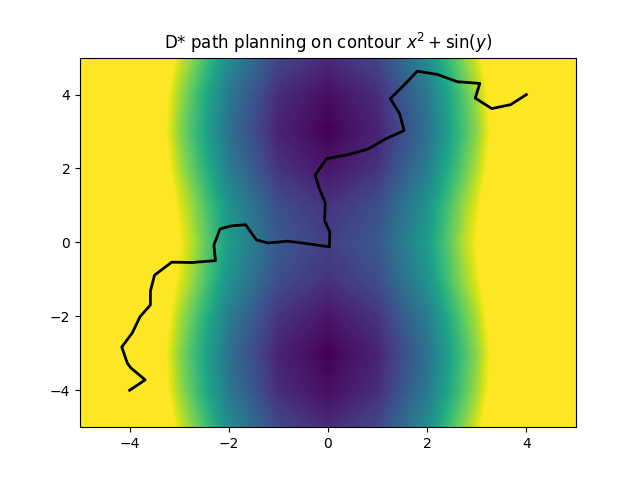
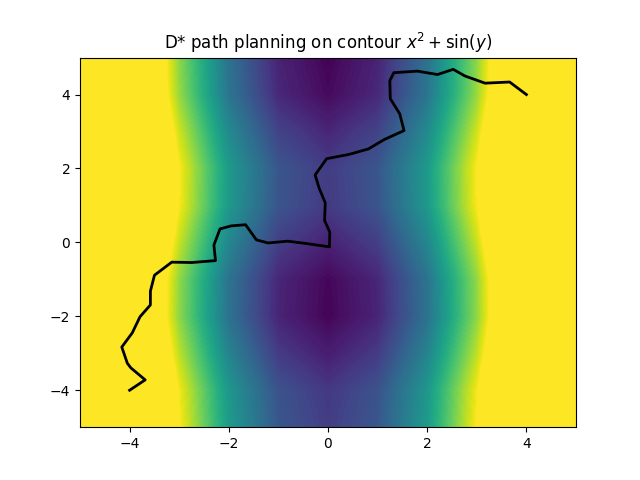
done.

Changed region(s): [[0.25, 0.4688, 0.7812, 0.9062], [0.25, 0.125, 0.8438, 0.4375]]

diff --git a/dijkstra_continuous.py b/dijkstra_continuous.py
@@ -1,0 +1,86 @@
+from lib.visualization import *
+from lib.node import *
+from lib.planner import *
+from lib.environment import *
+import numpy as np
+import matplotlib.pyplot as plt
+
+np.random.seed(234) # choose a seed...
+
+# plot empty axes
+fig, ax = plt.subplots()
+viz = Visualization((-5, 5), (-5, 5), ax)
+viz.plot_axes()
+viz.show(msg='Showing axes. Press enter to plan a path')
+
+# make environment
+env = Uniform(np.random.random((1000,2)) * 10 - 5, mincost=0.5, nodetype=TopologyNode)
+env.add_startgoal(start=[-4, -4], goal=[4, 4])
+
+for v in env.graph.keys():
+    v.set_cost(np.sin(v.x) + v.y**2)
+# viz.plot_nodes(env.pts)
+ax.set_title('Dijkstra path planning on contour $\sin(x) + y^2$') 
+
+x = np.arange(-7, 7)
+y = x.reshape(-1, 1)
+h = np.sin(x) + y**2
+
+cs = plt.contourf(x,y.flatten(),h, levels=np.linspace(-1,10,num=100), extend='both')
+# plan initial path
+planner = Astar(cost_multiplier=0)
+path, total_cost = planner.plan(env.graph, env.start, env.goal)
+viz.plot_path(BasicNode.nodes_to_xy(path), col='Black')
+viz.show(msg='Showing path. Press enter to add point obstacle') 
+print(f"associated onDeck, processed nodes, and iterations before obstacles and replanning: %s" % (planner.getCounts(), ))
+
+
+# for v in env.graph.keys():
+#     v.set_cost(np.cos(v.y) + v.x**2)
+
+# x = np.arange(-7, 7)
+# y = x.reshape(-1, 1)
+# h = np.cos(y) + x**2
+
+# fig, ax = plt.subplots()
+# viz2 = Visualization((-5, 5), (-5, 5), ax)
+# ax.set_title('D* path planning on contour $x^2 + \sin(y)$') 
+# viz2.plot_axes()
+
+# cs = plt.contourf(x,y.flatten(),h, levels=np.linspace(-1,10,num=100), extend='both')
+# # plan initial path
+# planner = Astar(cost_multiplier=0)
+# newpath, total_cost = planner.plan(env.graph, env.start, env.goal)
+# viz2.plot_path(BasicNode.nodes_to_xy(newpath), col='Black')
+# viz2.show(msg='Showing path. Press enter to add point obstacle') 
+# print(f"associated onDeck, processed nodes, and iterations before obstacles and replanning: %s" % (planner.getCounts(), ))
+
+# plot empty axes
+fig2, ax2 = plt.subplots()
+viz2 = Visualization((-5, 5), (-5, 5), ax2)
+viz2.plot_axes()
+viz2.show(msg='Showing axes. Press enter to plan a path')
+
+np.random.seed(234) # choose a seed...
+# make environment
+env2 = Uniform(np.random.random((1000,2)) * 10 - 5, mincost=0.5, nodetype=TopologyNode)
+env2.add_startgoal(start=[path[len(path) // 2].x, path[len(path) // 2].y], goal=[4, 4])
+
+for v in env2.graph.keys():
+    v.set_cost(np.sin(v.y) + v.x**2)
+# viz.plot_nodes(env.pts)
+ax2.set_title('Dijkstra path planning on contour $\sin(x) + y^2$') 
+
+x = np.arange(-7, 7)
+y = x.reshape(-1, 1)
+h = np.sin(y) + x**2
+
+cs = plt.contourf(x,y.flatten(),h, levels=np.linspace(-1,10,num=100), extend='both')
+# plan initial path
+planner2 = Astar(cost_multiplier=0)
+newpath2, total_cost2 = planner2.plan(env2.graph, env2.start, env2.goal)
+viz2.plot_path(BasicNode.nodes_to_xy(path[:len(path) // 2] + newpath2), col='Black')
+viz2.show(msg='Showing path. Press enter to add point obstacle') 
+print(f"associated onDeck, processed nodes, and iterations before obstacles and replanning: %s" % (planner2.getCounts(), ))
+
+

diff --git a/lib/node.py b/lib/node.py
@@ -53,6 +53,8 @@ class BasicNode:
         pointpath = []
 
         for node in path:
+            # print(node)
+            # input()
             pointpath.append([node.x, node.y])
 
         return pointpath
@@ -75,28 +77,29 @@ class BasicNode:
         return self.cost < other.cost
     
 
-class TopologyNode:
+class TopologyNode(BasicNode):
     """
     Basic x,y node. Changing to a more complex state will likely require changes in other lib files
     """
 
-    def __init__(self, x, y):
+    def __init__(self, x, y, variant=None):
+        super().__init__(x, y, variant)
         self.x = x
         self.y = y
         self.pt = np.array([x, y])
         self.creach = 0.0
-        self.cost = 0
+        self._cost = 0
 
 
     def set_cost(self, cval):
-        self.cost = np.exp(cval) # keep everything positive
+        self._cost = np.exp(cval) # keep everything positive
 
 
     def cost_to(self, node):
         """
         Cost function
         """
-        return self.cost
+        return self._cost
     
 
     def nodes_to_xy(path):

diff --git a/dstar_continuous.py b/dstar_continuous.py
@@ -36,11 +36,11 @@ print(f"associated onDeck, processed nodes, and iterations before obstacles and 
 
 
 for v in env.graph.keys():
-    planner.modify_cost(v, None, np.cos(v.y) + v.x**2)
+    planner.modify_cost(v, None, np.sin(v.y) + v.x**2)
 
 x = np.arange(-7, 7)
 y = x.reshape(-1, 1)
-h = np.cos(y) + x**2
+h = np.sin(y) + x**2
 
 fig, ax = plt.subplots()
 viz2 = Visualization((-5, 5), (-5, 5), ax)

diff --git a/lib/planner.py b/lib/planner.py
@@ -514,7 +514,7 @@ class DstarFocused(Planner):
         self.t[x] = Dstar.CLOSED
         self.addProcessed()
 
-        # LOWER state
+        # RAISE state
         if k_old < self.h[x]:
             # print('LOWER')
             for y in self.graph[x]:
